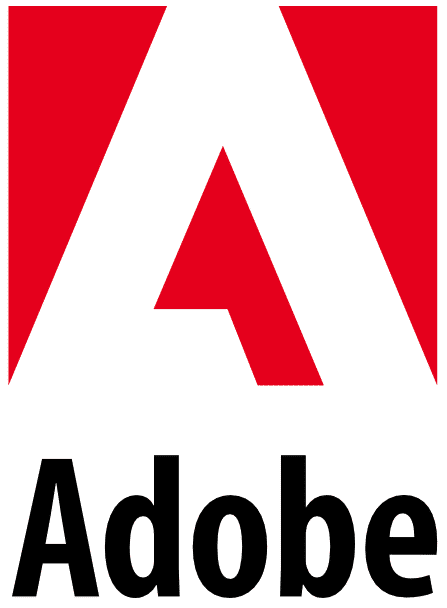
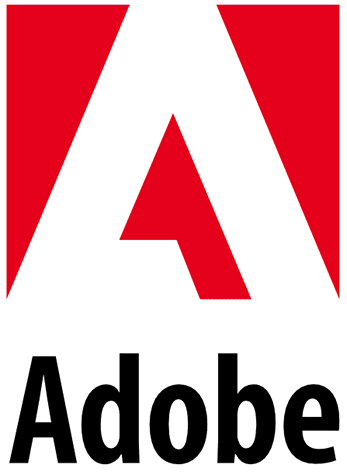
optimize file sizes

Changed region(s): [[0.4899, 0.2373, 0.5187, 0.2669]]

diff --git a/index.html b/index.html
@@ -181,7 +181,7 @@
             <!-- <div class="two">
                   <img src='images/adobe_after.jpg'>
                 </div> -->
-            <img src='images/adobe_before.png'>
+            <img src='images/adobe_before.jpg'>
           </itempreview>
         </td>
         <td class="table_section__right HOVER CURRENT">
@@ -204,7 +204,7 @@
       <tr>
         <td class="table_section__left">
           <itempreview>
-            <img src='images/adobe_before.png'>
+            <img src='images/adobe_before.jpg'>
           </itempreview>
         </td>
         <td class="table_section__right HOVER">
@@ -275,7 +275,7 @@
       <tr>
         <td class="table_section__left">
           <itempreview>
-            <img src='images/metabrainz.png'>
+            <img src='images/metabrainz.jpg'>
           </itempreview>
         </td>
         <td class="table_section__right HOVER">
@@ -322,7 +322,7 @@
       <tr>
         <td class="table_section__left">
           <itempreview>
-            <img src='images/metabrainz.png'>
+            <img src='images/metabrainz.jpg'>
           </itempreview>
         </td>
         <td class="table_section__right HOVER">
